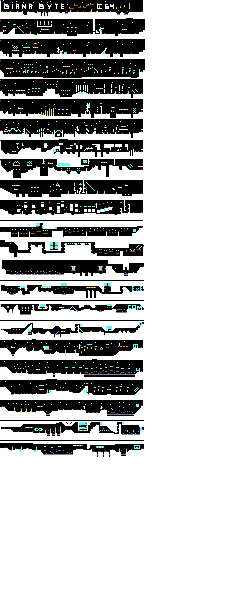
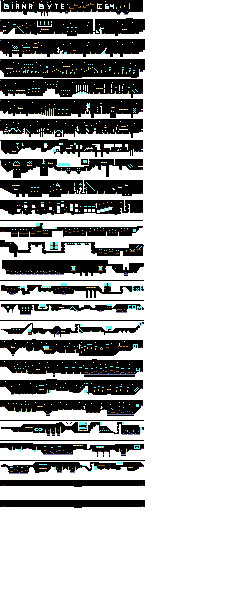
added 23rd level

Changed region(s): [[0.0, 0.75, 0.6125, 0.87]]

diff --git a/core/src/com/mdinic/game/giana/LevelConf.java b/core/src/com/mdinic/game/giana/LevelConf.java
@@ -10,7 +10,9 @@ public enum LevelConf {
             BgMusic.MUSIC_FAST), LEVEL14(BrickColor.GREY, BgMusic.MUSIC_FAST), LEVEL15(BrickColor.GREY,
             BgMusic.MUSIC_FAST), LEVEL16(BrickColor.RED, BgMusic.MUSIC_FAST), LEVEL17(0x826fe8, BrickColor.BROWN,
             BgMusic.MUSIC_LIGHT), LEVEL18(0x826fe8), LEVEL19(0x826fe8), LEVEL20(0x826fe8), LEVEL21(BrickColor.VIOLET,
-            BgMusic.MUSIC_FAST), LEVEL22(BrickColor.VIOLET, BgMusic.MUSIC_FAST);
+            BgMusic.MUSIC_FAST), LEVEL22(BrickColor.VIOLET, BgMusic.MUSIC_FAST), LEVEL23(BrickColor.RED,
+            BgMusic.MUSIC_FAST), LEVEL24(BrickColor.GREY, BgMusic.MUSIC_FAST), LEVEL25(BrickColor.RED,
+            BgMusic.MUSIC_FAST), LEVEL26(0x826fe8), LEVEL27(0x826fe8);
 
     enum BrickType {
         SMALL, BIG

diff --git a/core/src/com/mdinic/game/giana/screens/GianaSistersScreen.java b/core/src/com/mdinic/game/giana/screens/GianaSistersScreen.java
@@ -10,7 +10,7 @@ public abstract class GianaSistersScreen implements Screen {
     protected final Game game;
 
     public static final int SCREEN_WIDTH = 480;
-    public static final int LEVEL_COUNT = 20;
+    public static final int LEVEL_COUNT = 25;
 
     protected static MapRenderer renderer;
 
